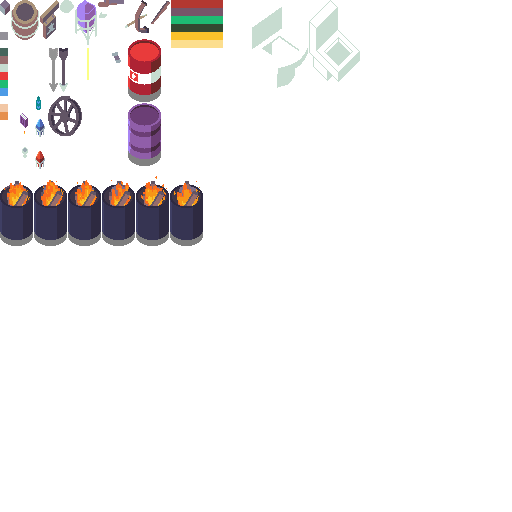
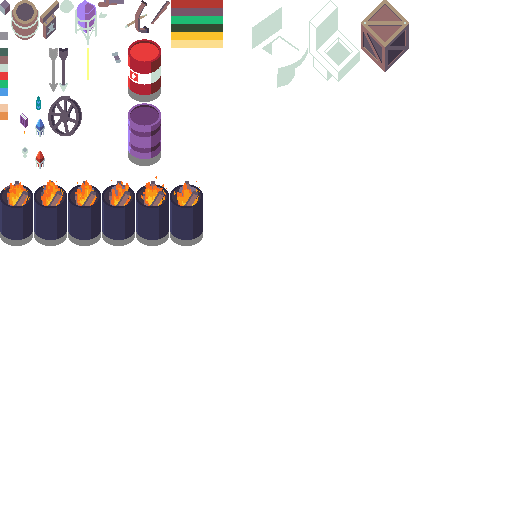
0.6.889

Changed region(s): [[0.6875, 0.0, 0.8125, 0.1562]]

diff --git a/gamestream_flutter/lib/game_atlas.dart b/gamestream_flutter/lib/game_atlas.dart
@@ -19,6 +19,7 @@ class AtlasItems {
         ItemType.GameObjects_Crystal_Small_Red: 32,
         ItemType.GameObjects_Crystal_Small_Blue: 32,
         ItemType.GameObjects_Toilet: 309,
+        ItemType.GameObjects_Crate_Wooden: 361,
         ItemType.Trinket_Ring_of_Health: 256,
         ItemType.Trinket_Ring_of_Damage: 288,
         ItemType.Empty: 224,
@@ -98,6 +99,7 @@ class AtlasItems {
         ItemType.GameObjects_Crystal_Small_Blue: 119,
         ItemType.GameObjects_Crystal_Small_Red: 151,
         ItemType.GameObjects_Toilet: 0,
+        ItemType.GameObjects_Crate_Wooden: 0,
         ItemType.Trinket_Ring_of_Health: 32,
         ItemType.Trinket_Ring_of_Damage: 32,
         ItemType.Weapon_Ranged_Shotgun: 32,
@@ -170,6 +172,7 @@ class AtlasItems {
         ItemType.GameObjects_Candle: 3,
         ItemType.GameObjects_Grenade: 8,
         ItemType.GameObjects_Toilet: 51,
+        ItemType.GameObjects_Crate_Wooden: 48,
         ItemType.Weapon_Rifle_Sniper: 48,
         ItemType.Weapon_Flamethrower: 64,
         ItemType.Weapon_Special_Bazooka: 48,
@@ -183,6 +186,7 @@ class AtlasItems {
         ItemType.GameObjects_Barrel_Explosive: 63,
         ItemType.GameObjects_Barrel_Purple: 63,
         ItemType.GameObjects_Barrel_Flaming: 70,
+        ItemType.GameObjects_Crate_Wooden: 72,
         ItemType.GameObjects_Candle: 10,
         ItemType.GameObjects_Cup: 11,
         ItemType.GameObjects_Tavern_Sign: 39,
@@ -200,12 +204,14 @@ class AtlasItems {
         ItemType.GameObjects_Barrel_Purple: 0.75,
         ItemType.GameObjects_Barrel_Flaming: 0.75,
         ItemType.GameObjects_Toilet: 0.5,
+        ItemType.GameObjects_Crate_Wooden: 0.75,
   }[itemType] ?? 1.0;
 
   static double getAnchorY(int itemType) => const <int, double>{
     ItemType.GameObjects_Barrel_Explosive: 0.75,
     ItemType.GameObjects_Barrel_Purple: 0.75,
     ItemType.GameObjects_Barrel_Flaming: 0.75,
+    ItemType.GameObjects_Crate_Wooden: 0.61,
   }[itemType] ?? 0.5;
 }
 

diff --git a/bleed-common/lib/src/item_type.dart b/bleed-common/lib/src/item_type.dart
@@ -83,6 +83,7 @@ class ItemType {
   static const GameObjects_Barrel_Purple        = Index_GameObjects + 19;
   static const GameObjects_Barrel_Flaming       = Index_GameObjects + 20;
   static const GameObjects_Toilet               = Index_GameObjects + 21;
+  static const GameObjects_Crate_Wooden         = Index_GameObjects + 22;
 
   static const Resource_Wood = Index_Resources + 5;
   static const Resource_Stone = Index_Resources + 6;
@@ -220,6 +221,7 @@ class ItemType {
       value == ItemType.GameObjects_Barrel_Explosive  ||
       value == ItemType.GameObjects_Barrel_Flaming    ||
       value == ItemType.GameObjects_Barrel            ||
+      value == ItemType.GameObjects_Crate_Wooden      ||
       value == ItemType.GameObjects_Tavern_Sign        ;
 
   static bool isPhysical(int value) =>
@@ -227,6 +229,7 @@ class ItemType {
     value == ItemType.GameObjects_Barrel_Explosive  ||
     value == ItemType.GameObjects_Barrel_Flaming    ||
     value == ItemType.GameObjects_Barrel            ||
+    value == ItemType.GameObjects_Crate_Wooden      ||
     value == ItemType.GameObjects_Tavern_Sign        ;
 
   static bool applyGravity(int value) =>
@@ -612,6 +615,7 @@ class ItemType {
      GameObjects_Barrel_Purple: "Purple Barrel",
      GameObjects_Barrel_Flaming: "Flaming Barrel",
      GameObjects_Toilet: "Toilet",
+     GameObjects_Crate_Wooden: "Wooden Crate",
   }[value] ?? "item-type-unknown($value)";
 
   static int getMaxQuantity(int itemType) => const {
@@ -723,6 +727,7 @@ class ItemType {
      GameObjects_Crystal_Small_Blue,
      GameObjects_Crystal_Small_Red,
      GameObjects_Toilet,
+     GameObjects_Crate_Wooden,
   ];
 
   static bool isTypeBarrel(int type)=> const [

diff --git a/bleed-server/lib/common/src/item_type.dart b/bleed-server/lib/common/src/item_type.dart
@@ -83,6 +83,7 @@ class ItemType {
   static const GameObjects_Barrel_Purple        = Index_GameObjects + 19;
   static const GameObjects_Barrel_Flaming       = Index_GameObjects + 20;
   static const GameObjects_Toilet               = Index_GameObjects + 21;
+  static const GameObjects_Crate_Wooden         = Index_GameObjects + 22;
 
   static const Resource_Wood = Index_Resources + 5;
   static const Resource_Stone = Index_Resources + 6;
@@ -220,6 +221,7 @@ class ItemType {
       value == ItemType.GameObjects_Barrel_Explosive  ||
       value == ItemType.GameObjects_Barrel_Flaming    ||
       value == ItemType.GameObjects_Barrel            ||
+      value == ItemType.GameObjects_Crate_Wooden      ||
       value == ItemType.GameObjects_Tavern_Sign        ;
 
   static bool isPhysical(int value) =>
@@ -227,6 +229,7 @@ class ItemType {
     value == ItemType.GameObjects_Barrel_Explosive  ||
     value == ItemType.GameObjects_Barrel_Flaming    ||
     value == ItemType.GameObjects_Barrel            ||
+    value == ItemType.GameObjects_Crate_Wooden      ||
     value == ItemType.GameObjects_Tavern_Sign        ;
 
   static bool applyGravity(int value) =>
@@ -612,6 +615,7 @@ class ItemType {
      GameObjects_Barrel_Purple: "Purple Barrel",
      GameObjects_Barrel_Flaming: "Flaming Barrel",
      GameObjects_Toilet: "Toilet",
+     GameObjects_Crate_Wooden: "Wooden Crate",
   }[value] ?? "item-type-unknown($value)";
 
   static int getMaxQuantity(int itemType) => const {
@@ -723,6 +727,7 @@ class ItemType {
      GameObjects_Crystal_Small_Blue,
      GameObjects_Crystal_Small_Red,
      GameObjects_Toilet,
+     GameObjects_Crate_Wooden,
   ];
 
   static bool isTypeBarrel(int type)=> const [

diff --git a/bleed-server/lib/src/classes/src/game.dart b/bleed-server/lib/src/classes/src/game.dart
@@ -842,6 +842,8 @@ abstract class Game {
               type: type,
           );
           break;
+        default:
+          return;
 
       }
     }

diff --git a/bleed-common/lib/src/version.dart b/bleed-common/lib/src/version.dart
@@ -1,4 +1,4 @@
-const version = '0.6.888';
+const version = '0.6.889';
 
 
 

diff --git a/bleed-server/lib/common/src/version.dart b/bleed-server/lib/common/src/version.dart
@@ -1,4 +1,4 @@
-const version = '0.6.888';
+const version = '0.6.889';
 
 
 

diff --git a/gamestream_flutter/README.md b/gamestream_flutter/README.md
@@ -98,7 +98,9 @@ ctrl + w:   minimal mode
 [ ] fix physics knocked through walls
 
 16.01.2023
-[x] gameobject toilet
+[x] feature game script
+[x] new gameobject wooden crate
+[x] new gameobject toilet
 [x] make respawn button more obvious
 [x] disable auto connect
 [x] optimize hsv to color 
